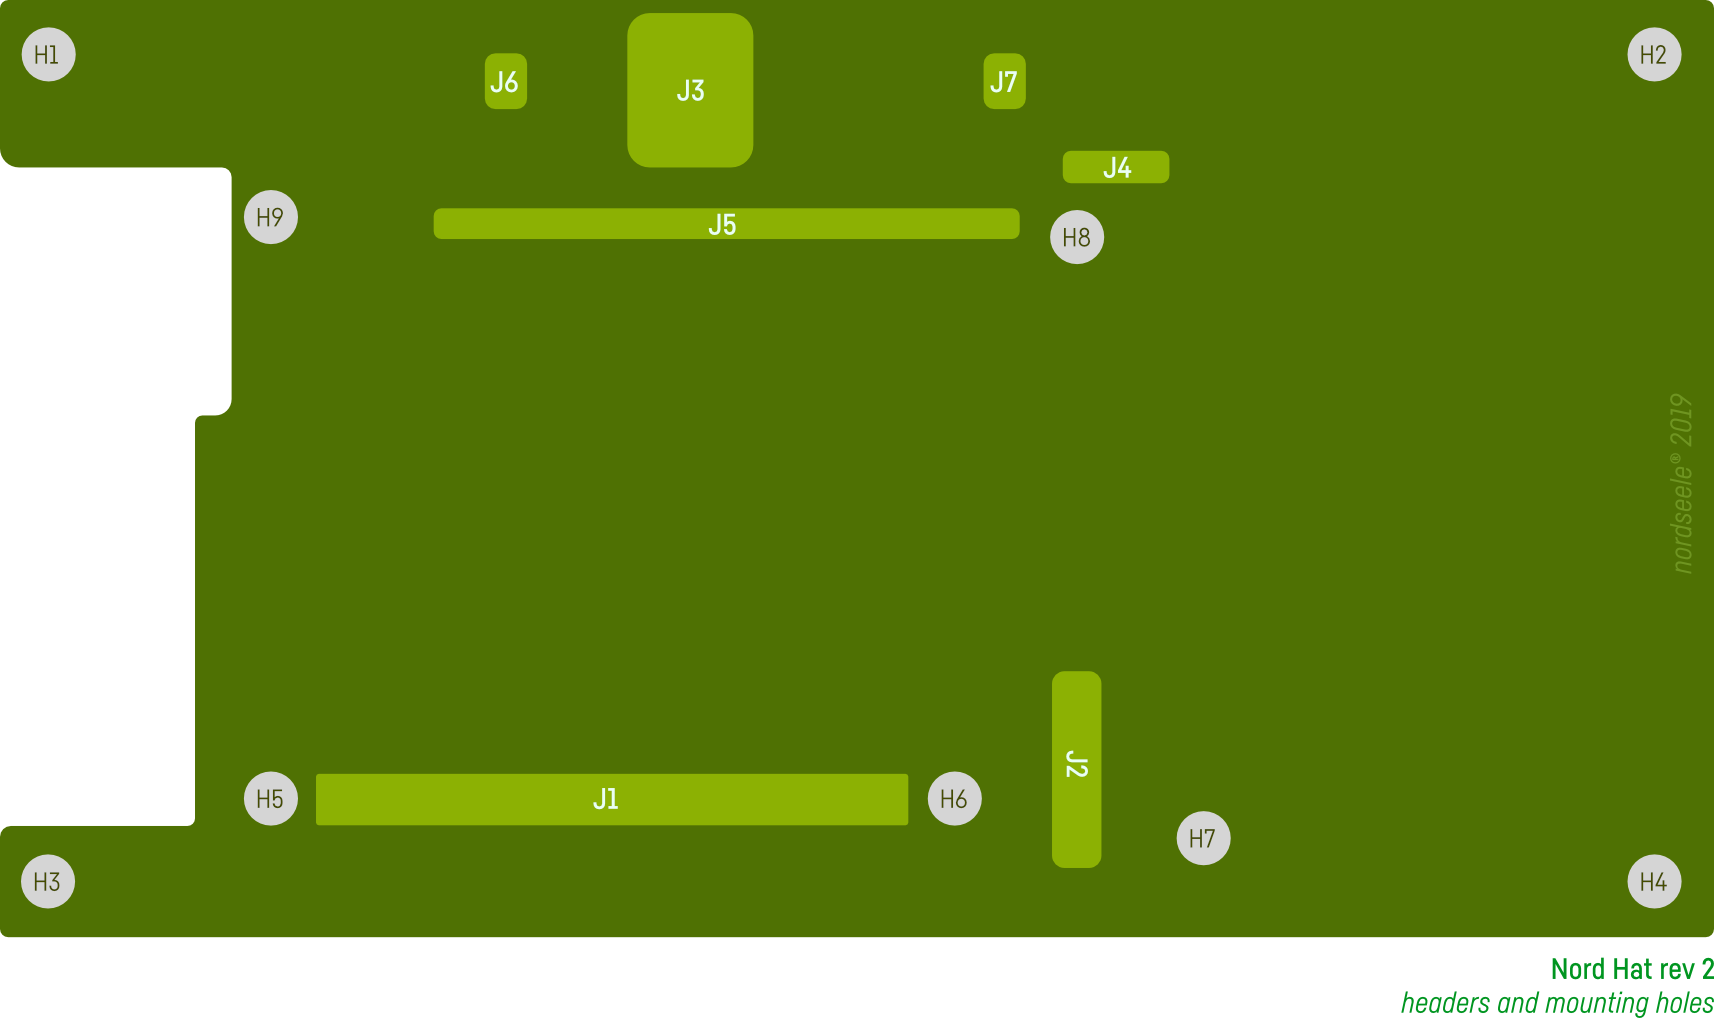
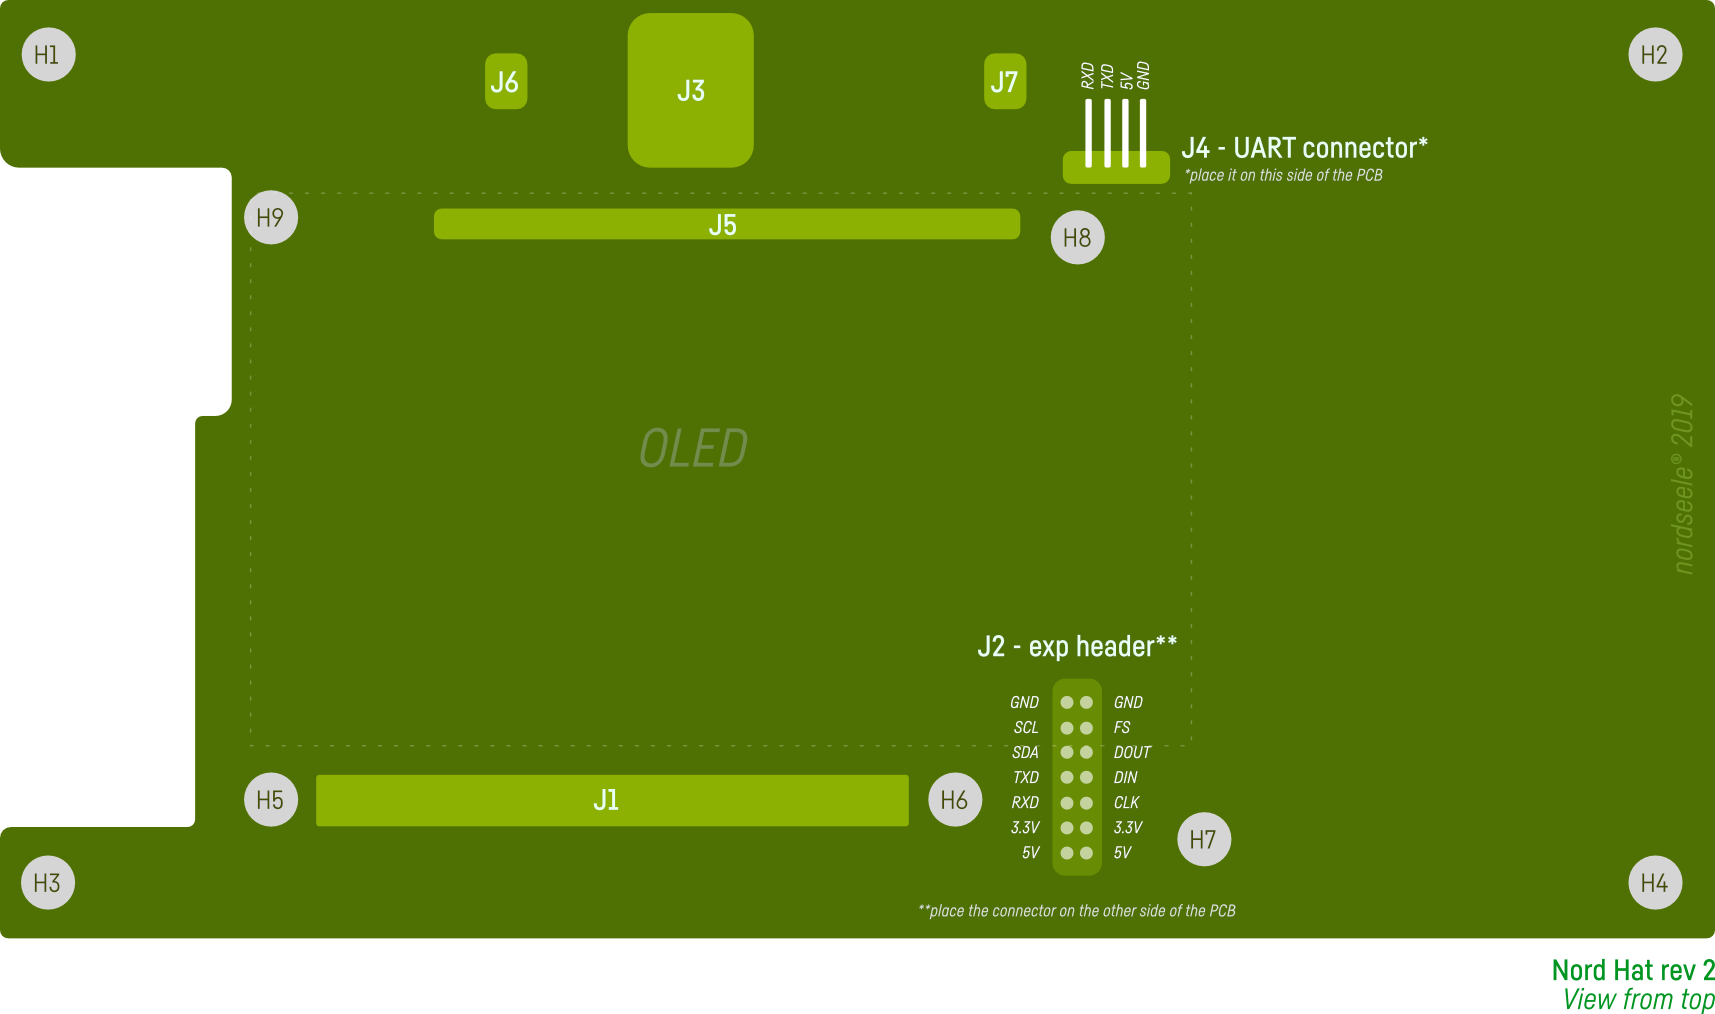
mod

diff --git a/hardware/notes.md b/hardware/notes.md
@@ -18,7 +18,7 @@ DO NOT solder the OLED display until all these steps are done. A certain chronol
 
 ## Headers and card to card connectors
 
-![alt text](https://github.com/nordseele/nordhat/blob/master/hardware/images/mockup_nordhat.png "mockup headers and mounting holes") ![alt text](https://github.com/nordseele/nordhat/blob/master/hardware/images/mockup_nordhat_headers.png "mockup headers pin-out")
+![alt text](https://github.com/nordseele/nordhat/blob/master/hardware/images/mockup_nordhat.png "mockup headers and mounting holes")
 
 
 ### J3, J7, J6 - The I2C section (middle/top of the board)
